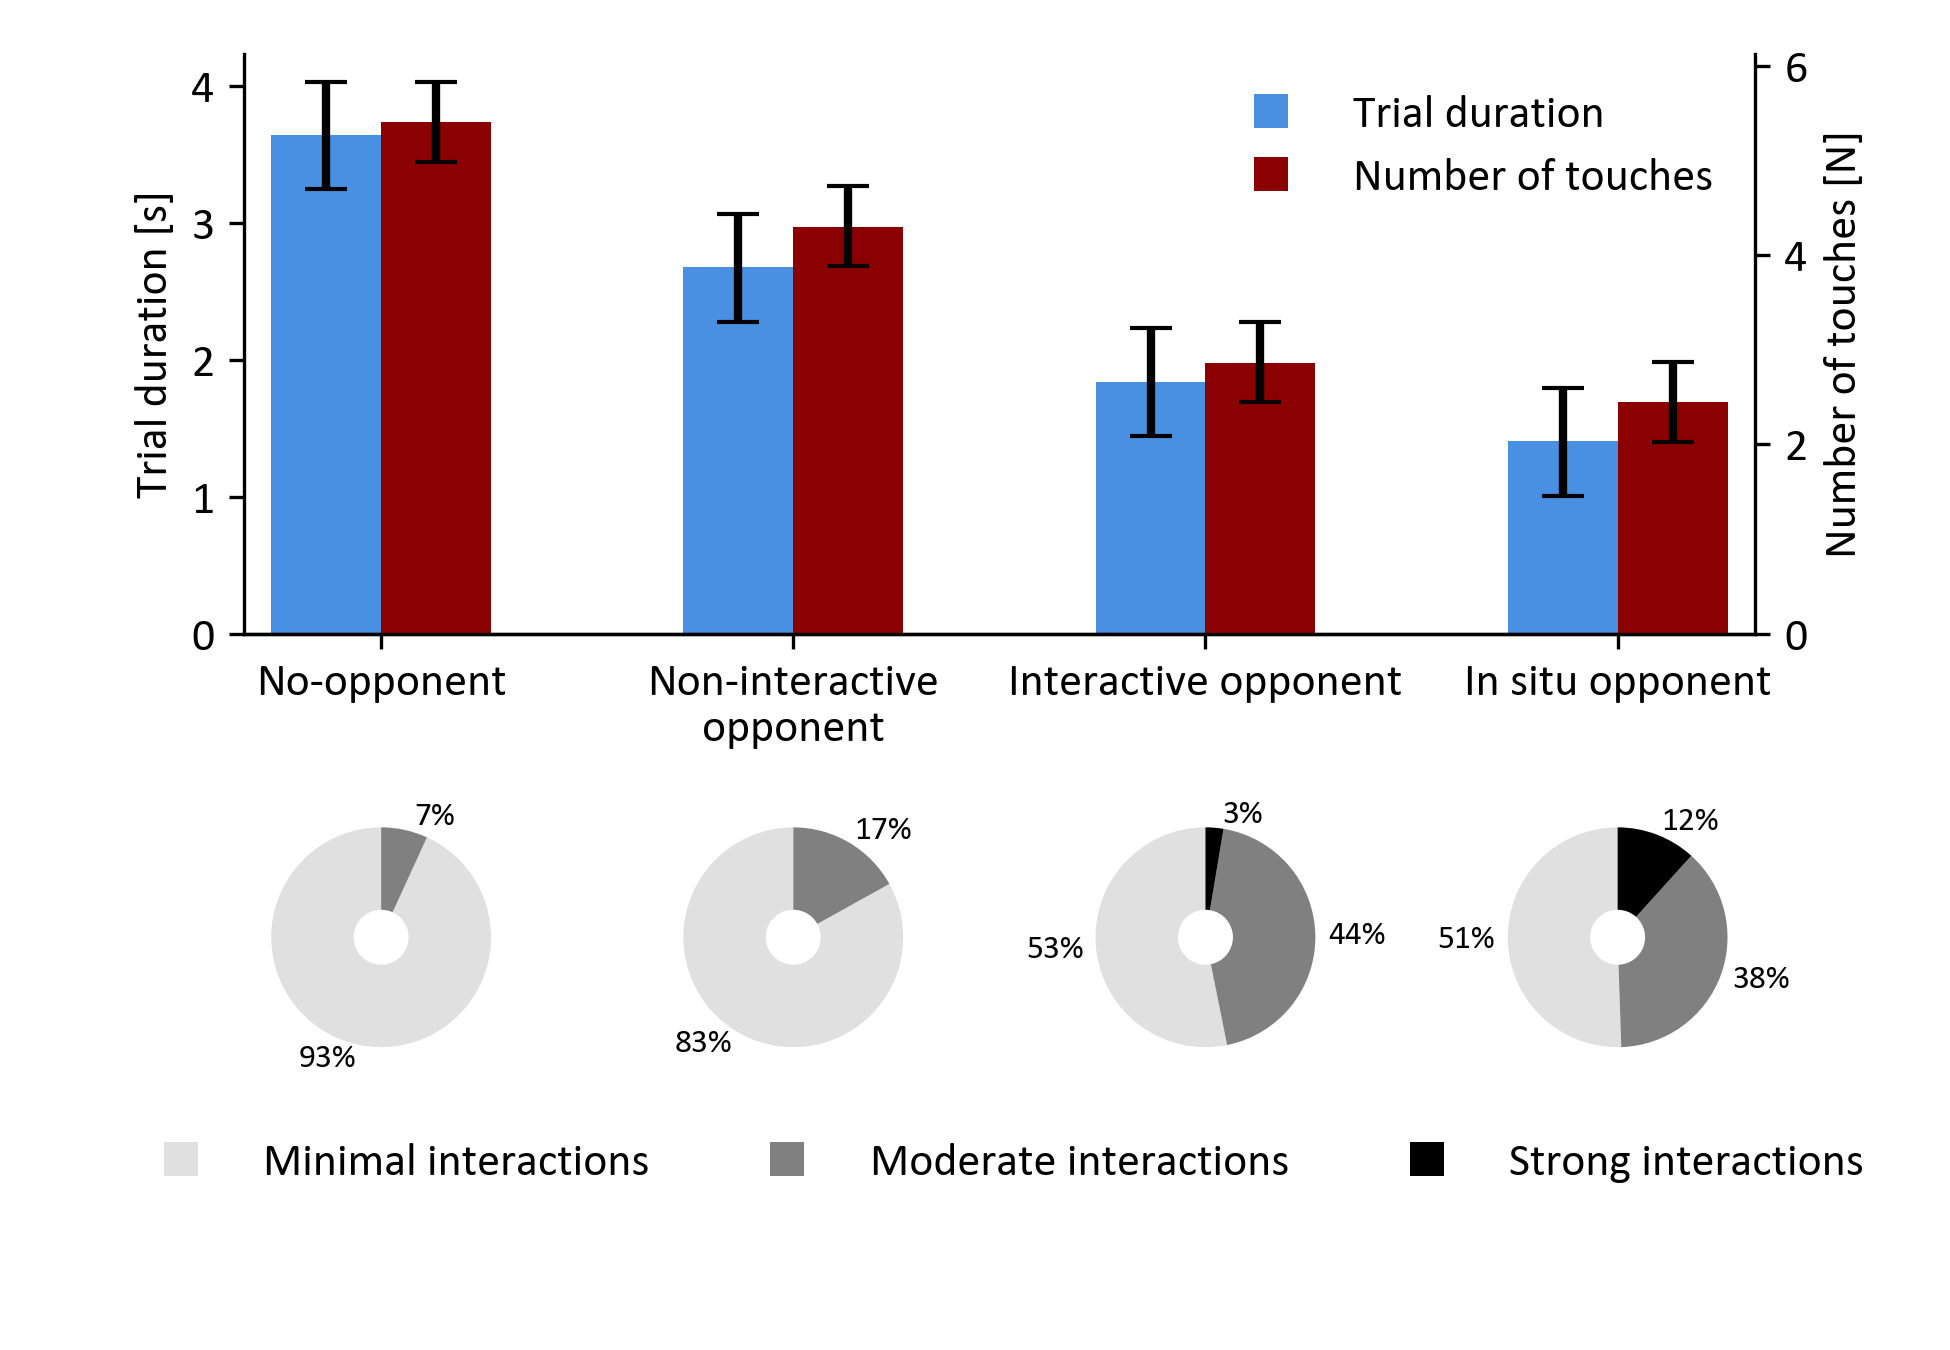
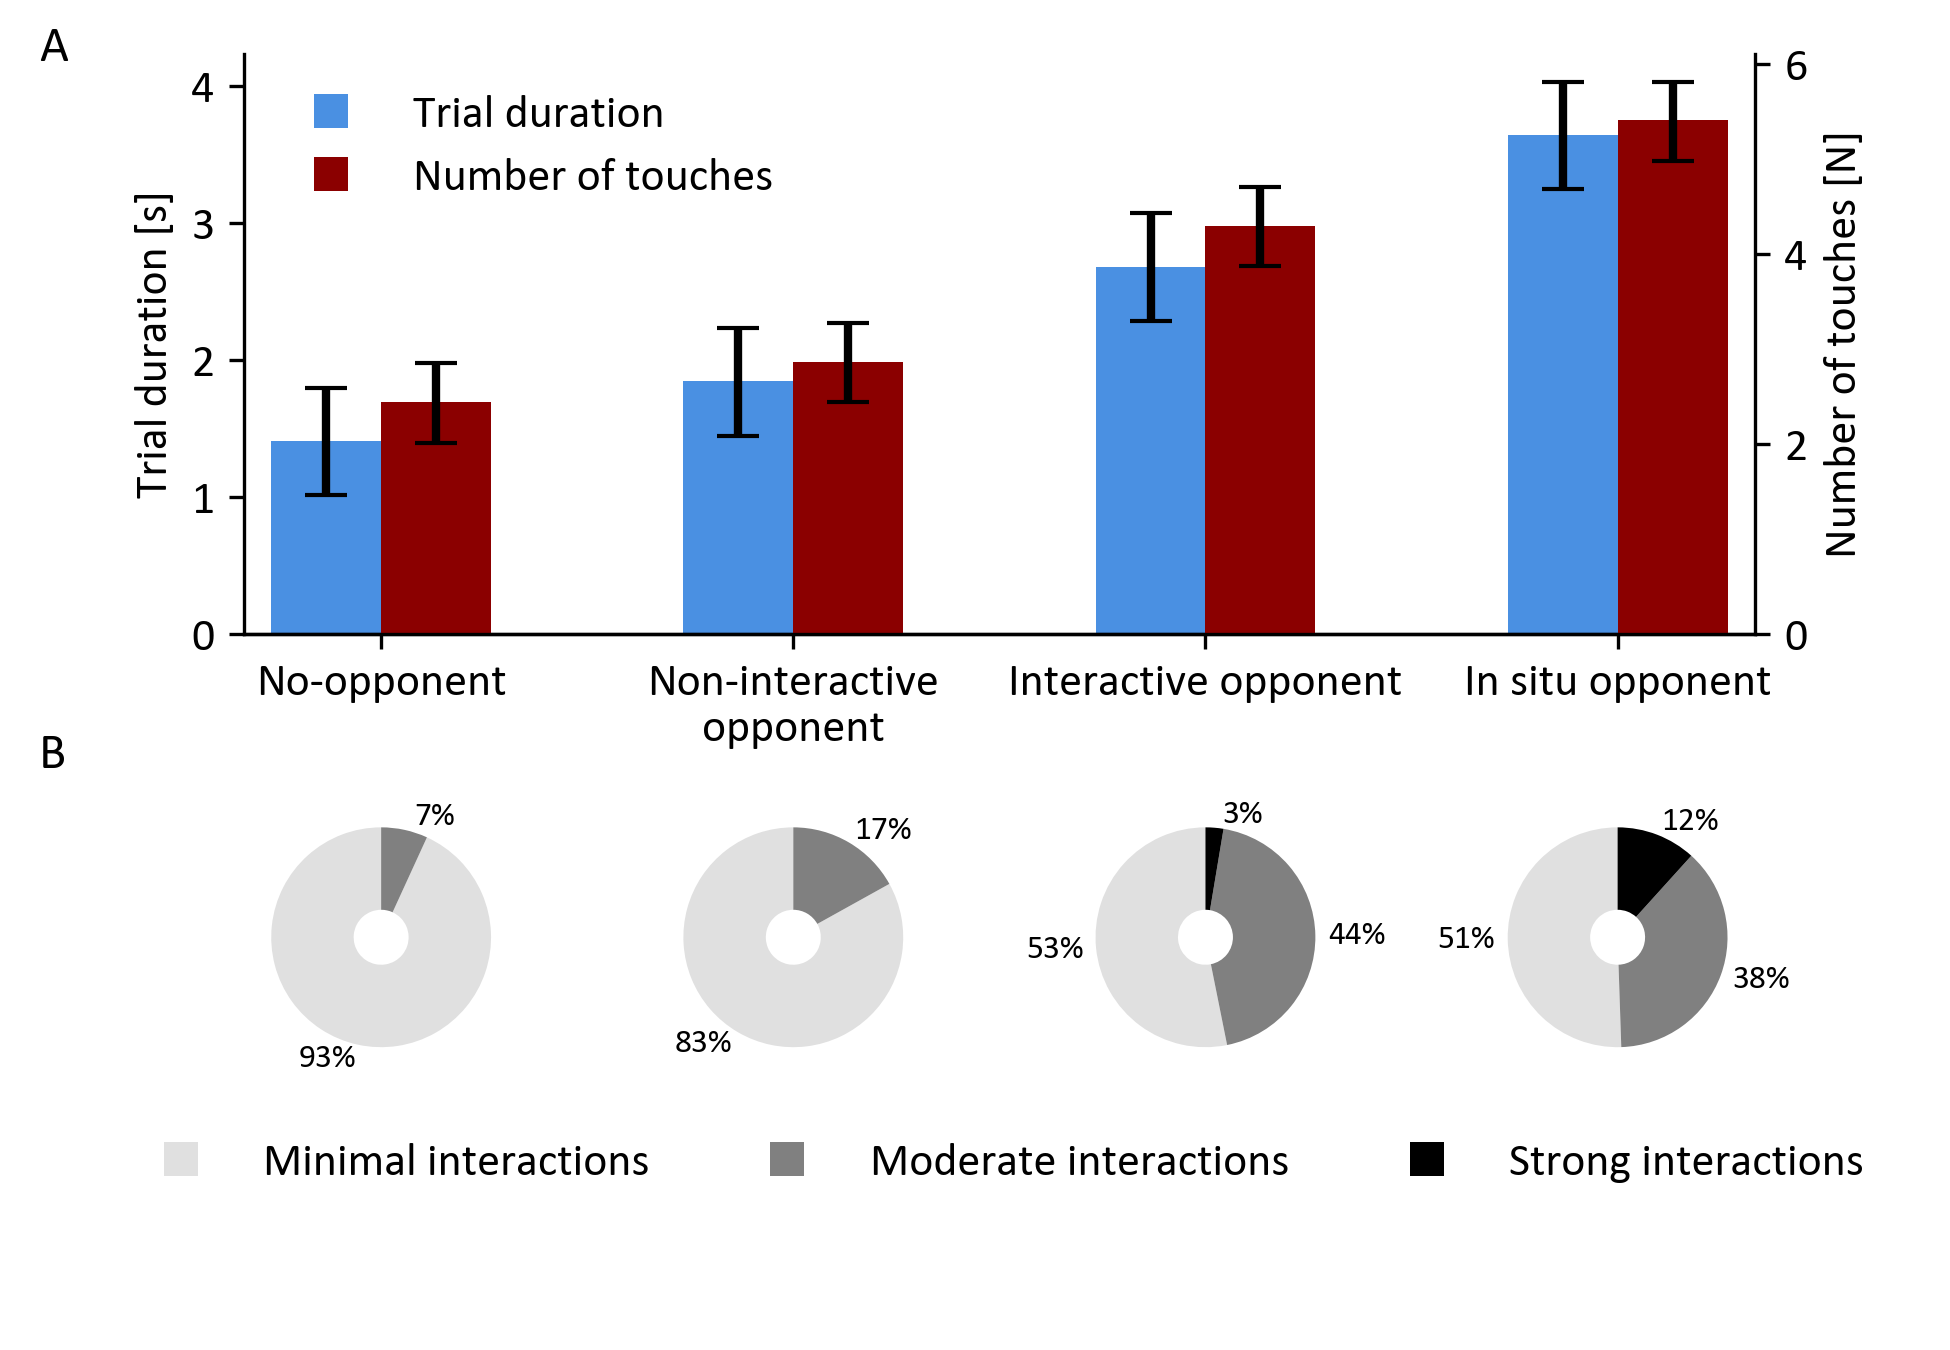
update plot for figure 3 for submission

Changed region(s): [[0.1231, 0.0622, 0.4615, 0.3733], [0.5538, 0.0622, 0.8923, 0.3733], [0.8923, 0.0311, 0.9231, 0.0622]]

diff --git a/Python.Analysis/src/combined_figures.py b/Python.Analysis/src/combined_figures.py
@@ -55,6 +55,13 @@ def combined_predictive_and_cluster_figure(
     ax2.spines['top'].set_visible(False)
     ax2.spines['right'].set_visible(False)
 
+    duration_means = duration_means[::-1]
+    duration_lower = duration_lower[::-1]
+    duration_upper = duration_upper[::-1]
+    touches_means = touches_means[::-1]
+    touches_lower = touches_lower[::-1]
+    touches_upper = touches_upper[::-1]
+
     ax1.bar(x_pos - 0.2, duration_means, 0.4,
             yerr=[duration_means - duration_lower, duration_upper - duration_means],
             capsize=5, color='#4A90E2', label='Trial duration')
@@ -80,13 +87,15 @@ def combined_predictive_and_cluster_figure(
     ax1.legend(
         legend_handles_top,
         legend_labels_top,
-        loc='upper right',
+        loc='upper left',
         ncol=1,
         frameon=False
     )
 
     common_xlim = (0.5, 6.0)
     ax1.set_xlim(common_xlim)
+
+    fig.text(0.02, 0.98, 'A', fontsize=12, ha='left', va='top')
 
     ax3 = fig.add_subplot(gs[1])
     ax3.set_anchor('N')
@@ -115,16 +124,13 @@ def combined_predictive_and_cluster_figure(
             radius=0.4
         )
 
-        # Add percentage labels outside the pie slices
         for i, wedge in enumerate(wedges):
             angle = (wedge.theta2 - wedge.theta1) / 2. + wedge.theta1
-            # Position labels outside the pie (radius > 0.4)
             x = pie_x + 0.45 * np.cos(np.deg2rad(angle))
             y = pie_y + 0.45 * np.sin(np.deg2rad(angle))
-            # Add a small offset to prevent overlap
-            if angle > 90 and angle < 270:  # Left side of pie
+            if angle > 90 and angle < 270:
                 x -= 0.1
-            else:  # Right side of pie
+            else:
                 x += 0.1
             ax3.text(x, y, f"{int(round(sizes[i]))}%", ha='center', va='center', fontsize=8)
 
@@ -147,6 +153,7 @@ def combined_predictive_and_cluster_figure(
     )
 
     ax3.set_xlim(common_xlim)
+    fig.text(0.02, 0.44, 'B', fontsize=12, ha='left', va='center')
     ax3.set_ylim(-0.5, 1.5)
     ax3.axis('off')
 
